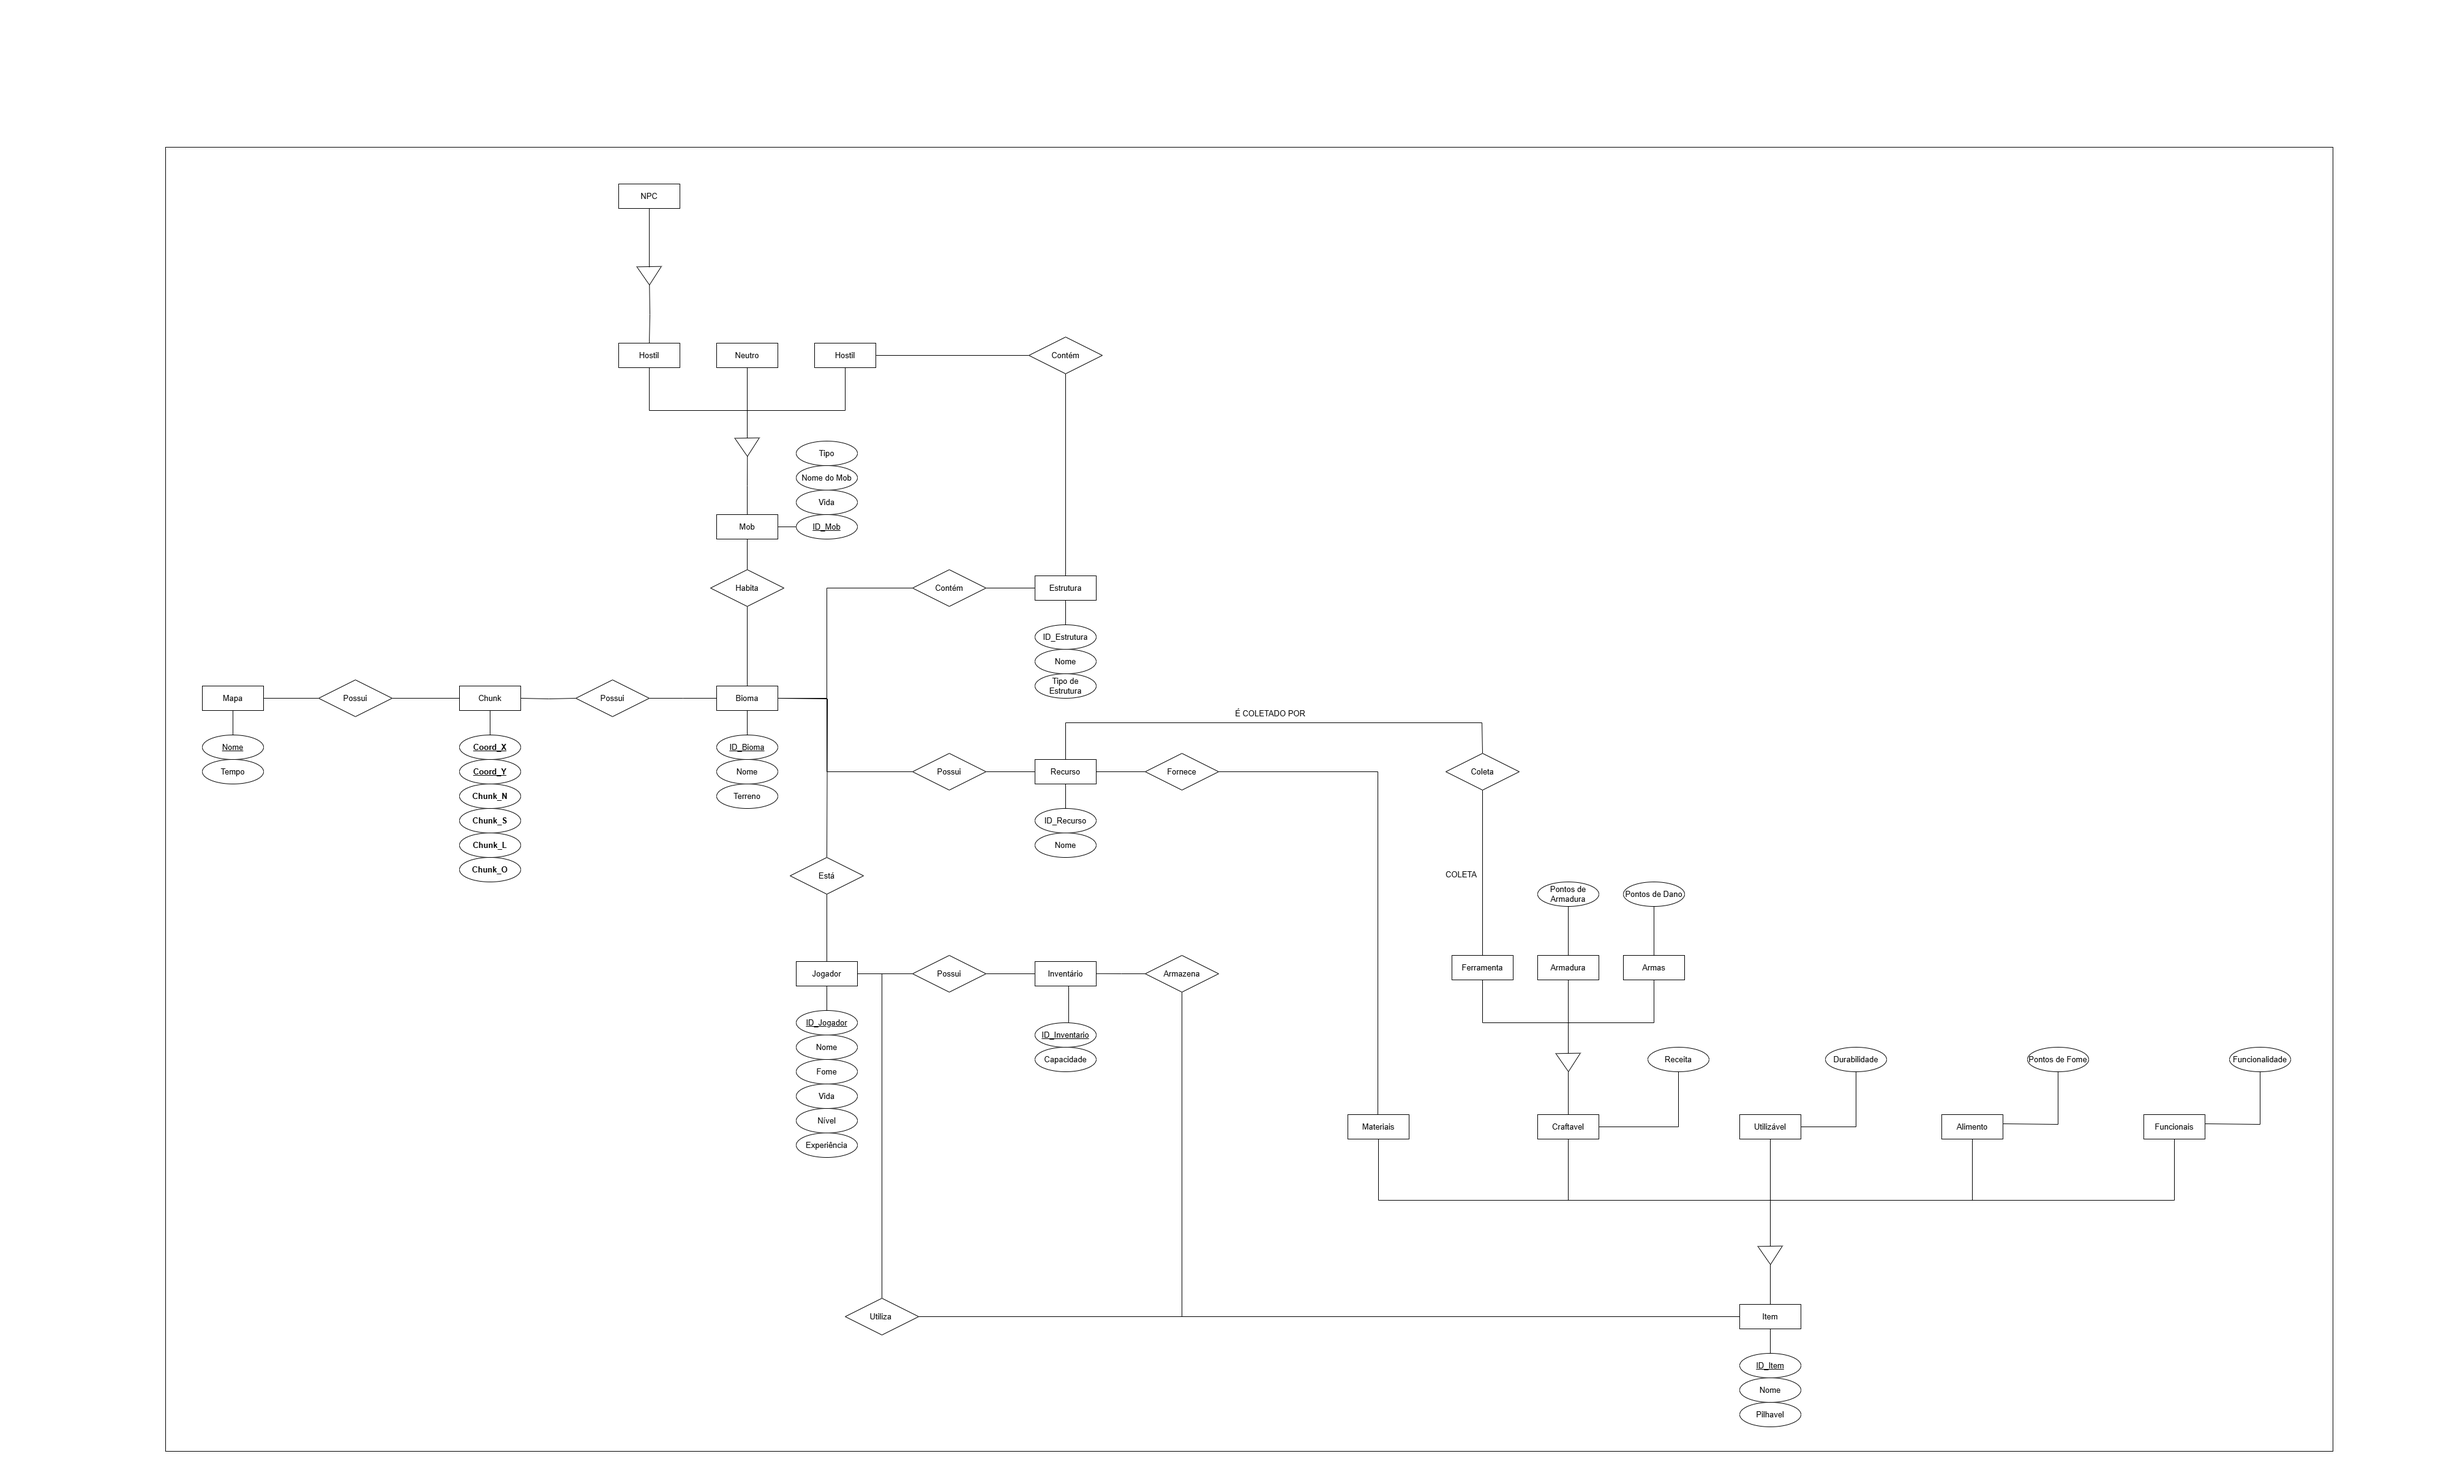
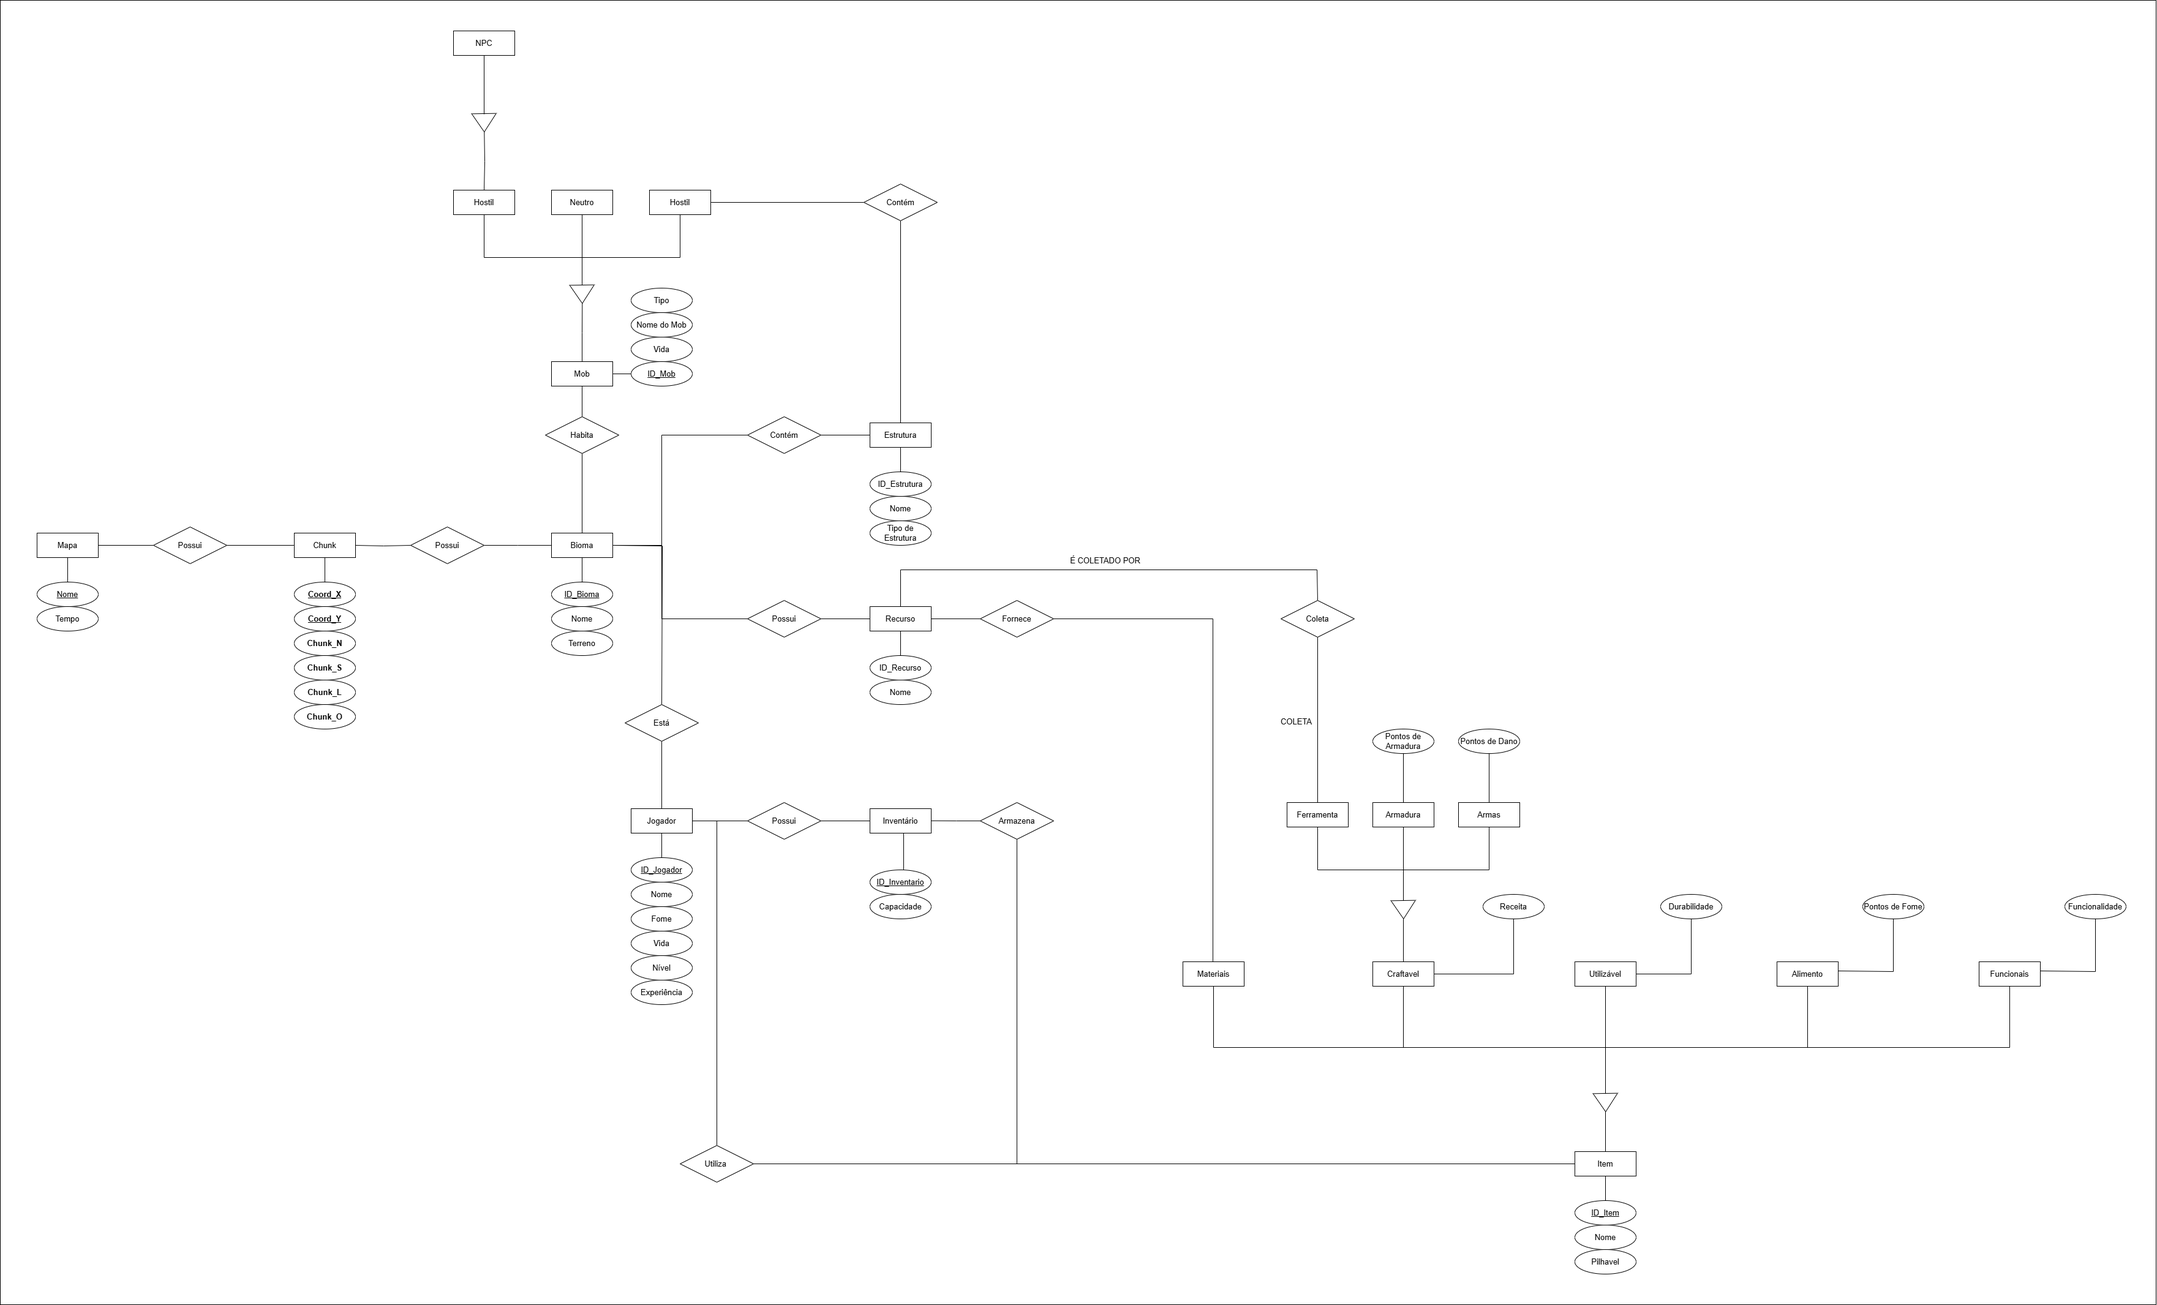
PNG certo da versaso 1.0

diff --git a/gitpages/docs/modulo_1/der.md b/gitpages/docs/modulo_1/der.md
@@ -7,4 +7,4 @@ Autores - [Arthur Carneiro Trindade](https://github.com/trindadea), [Bruno Ricar
 ## Histórico de Versão
 | Versão | Data       | Descrição                                      | Autor                                               | Revisão                                               |
 | :----: | :--------: | ---------------------------------------------- | --------------------------------------------------- | ----------------------------------------------------- |
-| `1.0`  | 20/07/2024 | [Versão incial do DER](./versoes_antigas/teste.png) | [Arthur Carneiro Trindade](https://github.com/trindadea) | [Bruno Ricardo de Menezes](https://github.com/EhOBruno)<br>[Miguel Moreira da Silva de Oliveira](https://github.com/EhOMiguel) |
+| `1.0`  | 20/07/2024 | [Versão incial do DER](./versoes_antigas/versao_1.0.png) | [Arthur Carneiro Trindade](https://github.com/trindadea) | [Bruno Ricardo de Menezes](https://github.com/EhOBruno)<br>[Miguel Moreira da Silva de Oliveira](https://github.com/EhOMiguel) |
